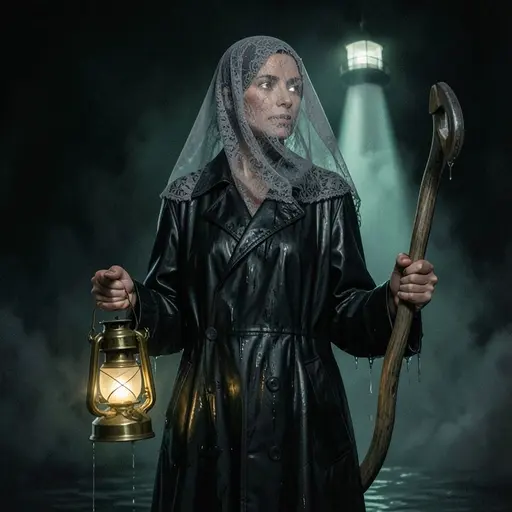
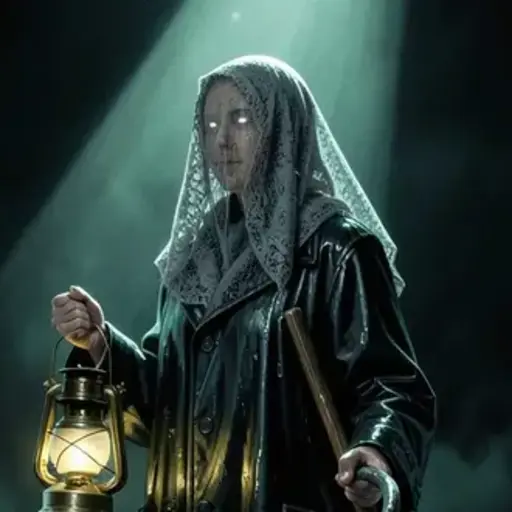
Painted art day 3: all 262 assets rendered with Flux
- Last 12 item icons, plus the hearth icon, Aspirin & Cola and Box of
  Sugar Candy (reworded after the output filter flagged them)
- Tidewife portrait: fully shrouded faceless veil. The full-length render
  was cropped by hand to chest-up, because asking for chest-up framing
  made the model add a second, unveiled woman
- Tracker and README: the free limit counts a rolling 24 hours, not a
  reset at 00:00 UTC

Claude-Session: https://claude.ai/code/session_01SkDovrZF2tsDL5Gysb4ncU

diff --git a/docs/ASSETS.md b/docs/ASSETS.md
@@ -5,17 +5,17 @@ The game uses a painted image as soon as its file exists in `src/art/gen/` and f
 
 This file is regenerated by `scripts/flux/render.mjs` after every asset. Edit prompts in `scripts/flux/prompts.mjs`.
 
-**247 / 262 converted.** About 1,560 neurons of work left (free tier: 10,000 a day, reset 00:00 UTC).
+**262 / 262 converted.** About 0 neurons of work left (free tier: about 10,000 per rolling 24 hours).
 
-Last run: 2026-11-26 02:52 UTC, 64 rendered, stopped because: daily neuron limit (4006: AiError: AiError: you have used up your daily free allocation of 10,000 neurons, please upgrade to Cloudflare's Workers Paid plan if you would like to continue usage. (5550a650-8ee2-43dd-8397-d34df955c0e2)).
+Last run: 2026-11-27 03:22 UTC, 1 rendered, stopped because: queue finished.
 
 | Class | Done | Total | Render size | Stored size | Neurons each |
 | --- | ---: | ---: | --- | --- | ---: |
 | Location backdrops | 10 | 10 | 1024×640 | 1024×640 WebP | ~104 |
 | Portraits | 12 | 12 | 768×768 | 512×512 WebP | ~104 |
 | Card stills | 112 | 112 | 768×480 | 640×400 WebP | ~104 |
-| Map node icons | 44 | 45 | 512×512 | 160×160 WebP | ~104 |
-| Item icons | 65 | 79 | 512×512 | 128×128 WebP | ~104 |
+| Map node icons | 45 | 45 | 512×512 | 160×160 WebP | ~104 |
+| Item icons | 79 | 79 | 512×512 | 128×128 WebP | ~104 |
 | Stat symbols | 4 | 4 | 512×512 | 96×96 WebP | ~104 |
 
 Status: ✅ done · ⬜ pending · 🚩 flagged by the model's output filter (reword the prompt and rerun with `--retry-flagged`) · ❌ error
@@ -47,7 +47,7 @@ Status: ✅ done · ⬜ pending · 🚩 flagged by the model's output filter (re
 | ✅ | `portrait/heroine-sunny` | <img src="../src/art/gen/portrait/heroine-sunny.webp" height="48"> | 2026-11-25 02:01 |
 | ✅ | `portrait/heroine-dee` | <img src="../src/art/gen/portrait/heroine-dee.webp" height="48"> | 2026-11-26 02:35 |
 | ✅ | `portrait/killer-projectionist` | <img src="../src/art/gen/portrait/killer-projectionist.webp" height="48"> | 2026-11-26 02:41 |
-| ✅ | `portrait/killer-tidewife` | <img src="../src/art/gen/portrait/killer-tidewife.webp" height="48"> | 2026-11-26 02:42 |
+| ✅ | `portrait/killer-tidewife` | <img src="../src/art/gen/portrait/killer-tidewife.webp" height="48"> | 2026-11-27 03:22 |
 | ✅ | `portrait/killer-anesthetist` | <img src="../src/art/gen/portrait/killer-anesthetist.webp" height="48"> | 2026-11-26 02:42 |
 | ✅ | `portrait/killer-snowblind` | <img src="../src/art/gen/portrait/killer-snowblind.webp" height="48"> | 2026-11-26 02:42 |
 | ✅ | `portrait/killer-caller` | <img src="../src/art/gen/portrait/killer-caller.webp" height="48"> | 2026-11-25 02:02 |
@@ -192,7 +192,7 @@ Status: ✅ done · ⬜ pending · 🚩 flagged by the model's output filter (re
 | ✅ | `icon/gate` | <img src="../src/art/gen/icon/gate.webp" height="48"> | 2026-11-26 02:38 |
 | ✅ | `icon/glass` | <img src="../src/art/gen/icon/glass.webp" height="48"> | 2026-11-26 02:38 |
 | ✅ | `icon/grass` | <img src="../src/art/gen/icon/grass.webp" height="48"> | 2026-11-26 02:44 |
-| 🚩 | `icon/hearth` |  | 2026-11-26 02:38 |
+| ✅ | `icon/hearth` | <img src="../src/art/gen/icon/hearth.webp" height="48"> | 2026-11-27 03:20 |
 | ✅ | `icon/hook` | <img src="../src/art/gen/icon/hook.webp" height="48"> | 2026-11-26 02:38 |
 | ✅ | `icon/ice` | <img src="../src/art/gen/icon/ice.webp" height="48"> | 2026-11-26 02:44 |
 | ✅ | `icon/lamp` | <img src="../src/art/gen/icon/lamp.webp" height="48"> | 2026-11-26 02:44 |
@@ -240,8 +240,8 @@ Status: ✅ done · ⬜ pending · 🚩 flagged by the model's output filter (re
 | ✅ | `item/fire-extinguisher` | <img src="../src/art/gen/item/fire-extinguisher.webp" height="48"> | 2026-11-26 02:46 |
 | ✅ | `item/usher-flashlight` | <img src="../src/art/gen/item/usher-flashlight.webp" height="48"> | 2026-11-26 02:46 |
 | ✅ | `item/first-aid-tin` | <img src="../src/art/gen/item/first-aid-tin.webp" height="48"> | 2026-11-26 02:46 |
-| 🚩 | `item/aspirin-cola` |  | 3030: output flagged |
-| 🚩 | `item/box-of-sugar-candy` |  | 3030: output flagged |
+| ✅ | `item/aspirin-cola` | <img src="../src/art/gen/item/aspirin-cola.webp" height="48"> | 2026-11-27 03:20 |
+| ✅ | `item/box-of-sugar-candy` | <img src="../src/art/gen/item/box-of-sugar-candy.webp" height="48"> | 2026-11-27 03:20 |
 | ✅ | `item/padlock-chain` | <img src="../src/art/gen/item/padlock-chain.webp" height="48"> | 2026-11-26 02:46 |
 | ✅ | `item/walkie-talkie` | <img src="../src/art/gen/item/walkie-talkie.webp" height="48"> | 2026-11-26 02:46 |
 | ✅ | `item/station-wagon-keys` | <img src="../src/art/gen/item/station-wagon-keys.webp" height="48"> | 2026-11-26 02:47 |
@@ -290,18 +290,18 @@ Status: ✅ done · ⬜ pending · 🚩 flagged by the model's output filter (re
 | ✅ | `item/air-horn` | <img src="../src/art/gen/item/air-horn.webp" height="48"> | 2026-11-26 02:51 |
 | ✅ | `item/snowmobile-keys` | <img src="../src/art/gen/item/snowmobile-keys.webp" height="48"> | 2026-11-26 02:51 |
 | ✅ | `item/mic-stand` | <img src="../src/art/gen/item/mic-stand.webp" height="48"> | 2026-11-26 02:51 |
-| ⬜ | `item/tower-wrench` |  |  |
-| ⬜ | `item/pneumatic-nail-gun` |  |  |
-| ⬜ | `item/halon-extinguisher` |  |  |
-| ⬜ | `item/heavy-flashlight` |  |  |
-| ⬜ | `item/station-first-aid-box` |  |  |
-| ⬜ | `item/headache-pills` |  |  |
-| ⬜ | `item/birthday-cake` |  |  |
-| ⬜ | `item/filing-cabinet` |  |  |
-| ⬜ | `item/test-tone-generator` |  |  |
-| ⬜ | `item/loaded-cart-tape` |  |  |
-| ⬜ | `item/station-van-keys` |  |  |
-| ⬜ | `item/two-way-radio` |  |  |
+| ✅ | `item/tower-wrench` | <img src="../src/art/gen/item/tower-wrench.webp" height="48"> | 2026-11-27 03:20 |
+| ✅ | `item/pneumatic-nail-gun` | <img src="../src/art/gen/item/pneumatic-nail-gun.webp" height="48"> | 2026-11-27 03:20 |
+| ✅ | `item/halon-extinguisher` | <img src="../src/art/gen/item/halon-extinguisher.webp" height="48"> | 2026-11-27 03:21 |
+| ✅ | `item/heavy-flashlight` | <img src="../src/art/gen/item/heavy-flashlight.webp" height="48"> | 2026-11-27 03:21 |
+| ✅ | `item/station-first-aid-box` | <img src="../src/art/gen/item/station-first-aid-box.webp" height="48"> | 2026-11-27 03:21 |
+| ✅ | `item/headache-pills` | <img src="../src/art/gen/item/headache-pills.webp" height="48"> | 2026-11-27 03:21 |
+| ✅ | `item/birthday-cake` | <img src="../src/art/gen/item/birthday-cake.webp" height="48"> | 2026-11-27 03:21 |
+| ✅ | `item/filing-cabinet` | <img src="../src/art/gen/item/filing-cabinet.webp" height="48"> | 2026-11-27 03:21 |
+| ✅ | `item/test-tone-generator` | <img src="../src/art/gen/item/test-tone-generator.webp" height="48"> | 2026-11-27 03:21 |
+| ✅ | `item/loaded-cart-tape` | <img src="../src/art/gen/item/loaded-cart-tape.webp" height="48"> | 2026-11-27 03:21 |
+| ✅ | `item/station-van-keys` | <img src="../src/art/gen/item/station-van-keys.webp" height="48"> | 2026-11-27 03:21 |
+| ✅ | `item/two-way-radio` | <img src="../src/art/gen/item/two-way-radio.webp" height="48"> | 2026-11-27 03:21 |
 
 ## Stat symbols
 

diff --git a/README.md b/README.md
@@ -67,7 +67,7 @@ The build uses a relative base path, so `dist/` also works on any static host.
 
 ## Painted art (Flux)
 
-Prompts live in `scripts/flux/prompts.mjs`; the renderer calls `@cf/black-forest-labs/flux-2-klein-4b` one asset at a time, writes WebP files to `src/art/gen/`, and updates `scripts/flux/manifest.json` and `docs/ASSETS.md` after every asset. It stops cleanly at the Workers AI free daily limit (10,000 neurons, reset 00:00 UTC); run it again the next day to continue.
+Prompts live in `scripts/flux/prompts.mjs`; the renderer calls `@cf/black-forest-labs/flux-2-klein-4b` one asset at a time, writes WebP files to `src/art/gen/`, and updates `scripts/flux/manifest.json` and `docs/ASSETS.md` after every asset. It stops cleanly at the Workers AI free limit (about 10,000 neurons, about 100 per image). The limit counts a rolling 24 hours, so run it again a day after the last run to continue.
 
 ```bash
 CLOUDFLARE_API_TOKEN=<token with Workers AI Read+Edit> NODE_USE_ENV_PROXY=1 node scripts/flux/render.mjs
